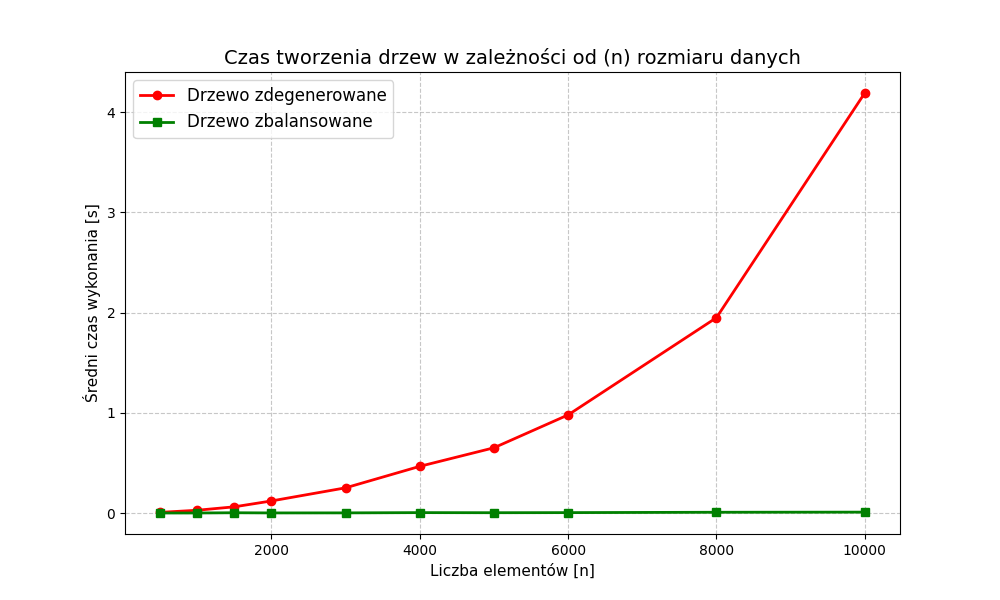
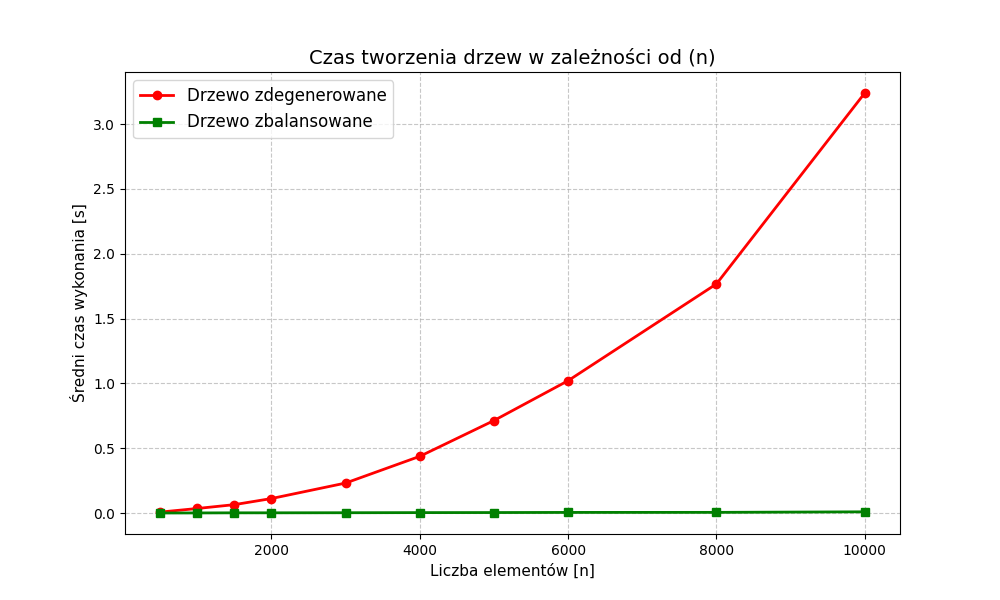
poprawki na wykresach

diff --git a/tests.py b/tests.py
@@ -19,7 +19,9 @@ def generate_plot(n_values, degenerate_times, balanced_times, title):
     plt.figure(figsize=(10, 6))
 
     plt.plot(n_values, degenerate_times, label="Drzewo zdegenerowane", color='red', marker='o', linewidth=2)
-    plt.plot(n_values, balanced_times, label="Drzewo zbalansowane", color='green', marker='s', linewidth=2)
+
+    if balanced_times is not None:
+        plt.plot(n_values, balanced_times, label="Drzewo zbalansowane", color='green', marker='s', linewidth=2)
 
     plt.title(title, fontsize=14)
     plt.xlabel('Liczba elementów [n]', fontsize=11)
@@ -38,14 +40,16 @@ def generate_tests():
     results = {
         'creation': {'deg': [], 'bal': []},
         'max': {'deg': [], 'bal': []},
-        'in_order': {'deg': [], 'bal': []}
+        'in_order': {'deg': [], 'bal': []},
+        'dsw': {'deg': []}
     }
 
     for n in n_values:
         times = {
             'create_deg': [], 'create_bal': [],
             'max_deg': [], 'max_bal': [],
-            'in_order_deg': [], 'in_order_bal': []
+            'in_order_deg': [], 'in_order_bal': [],
+            'dsw_deg': []
         }
 
         print(f"Rozpoczynam testy dla n = {n}")
@@ -75,6 +79,11 @@ def generate_tests():
                 stop = time.perf_counter()
                 times['in_order_deg'].append(stop-start)
 
+                start = time.perf_counter()
+                tree_deg.balance_dsw()
+                stop = time.perf_counter()
+                times['dsw_deg'].append(stop - start)
+
             # Testy dla drzewa zbalansowanego
 
             tree_bal = BST()
@@ -102,10 +111,11 @@ def generate_tests():
 
         results['in_order']['deg'].append(statistics.mean(times['in_order_deg']))
         results['in_order']['bal'].append(statistics.mean(times['in_order_bal']))
+        results['dsw']['deg'].append(statistics.mean(times['dsw_deg']))
 
-    generate_plot(n_values, results['creation']['deg'], results['creation']['bal'],"Czas tworzenia drezw w zależności od (n)")
-    generate_plot(n_values, results['max']['deg'], results['max']['bal'], "Czas szukania wartości MAX w zależności od (n)")
-    generate_plot(n_values, results['in_order']['deg'], results['in_order']['bal'], "Czas wyszukiwania in-order w zależności od (n)")
+    generate_plot(n_values, results['creation']['deg'], results['creation']['bal'],"Czas tworzenia drzew w zależności od (n)")
+    #generate_plot(n_values, results['max']['deg'], results['max']['bal'], "Czas szukania wartości MAX w zależności od (n)")
+    #generate_plot(n_values, results['in_order']['deg'], results['in_order']['bal'], "Czas wyszukiwania in-order w zależności od (n)")
+    generate_plot(n_values, results['dsw']['deg'], None, "Czas równoważenia DSW w zależności od liczby elementów (n)")
 
-
-#generate_tests()
+generate_tests()
